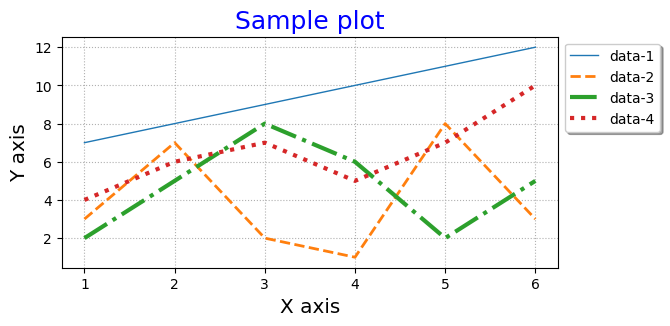
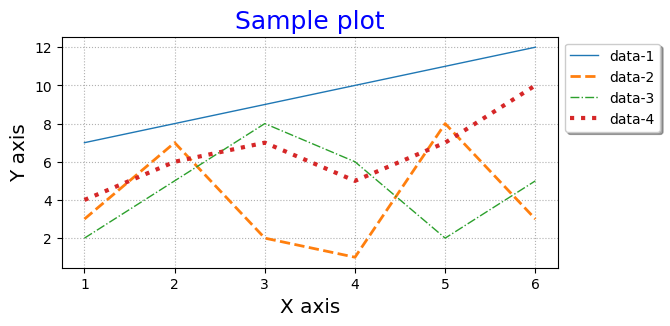
first

diff --git a/_posts/2024-11-15-matplotlib.md b/_posts/2024-11-15-matplotlib.md
@@ -63,7 +63,7 @@ setText(plt, "Sample plot", "X axis", "Y axis")
 
 plot(plt, x, y, "data-1", 1)
 plot(plt, x, y1, "data-2", 2, "--")
-plot(plt, x, y2, "data-3", 3, "-.")
+plot(plt, x, y2, "data-3", 1, "-.")
 plot(plt, x, y3, "data-4", 3, ":")
 
 plt.legend(bbox_to_anchor=(1, 1), fancybox=True, shadow=True)
